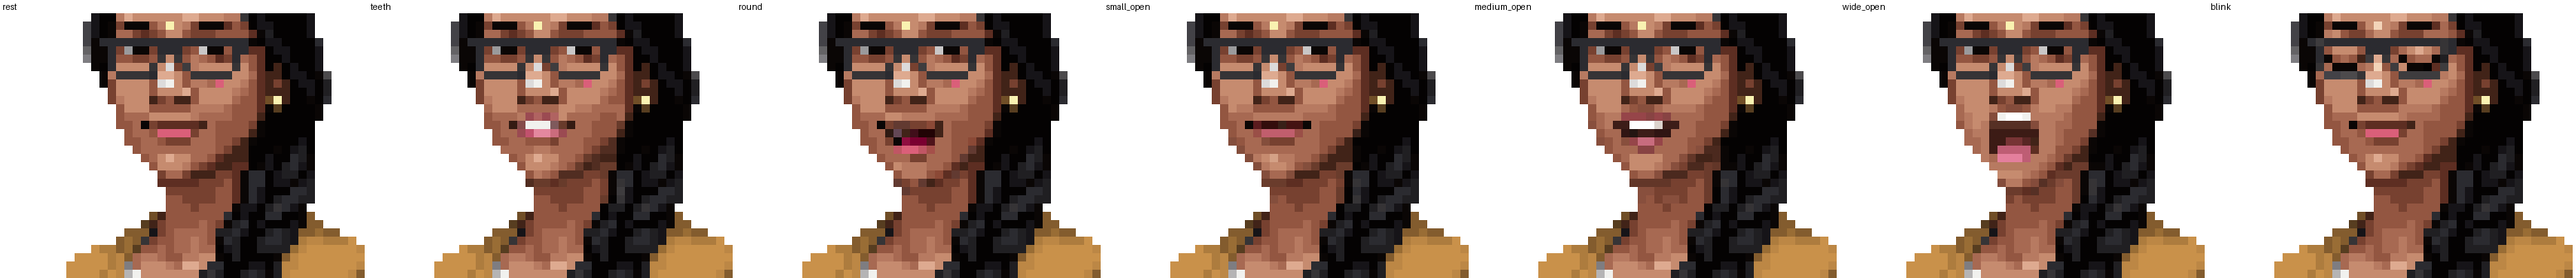
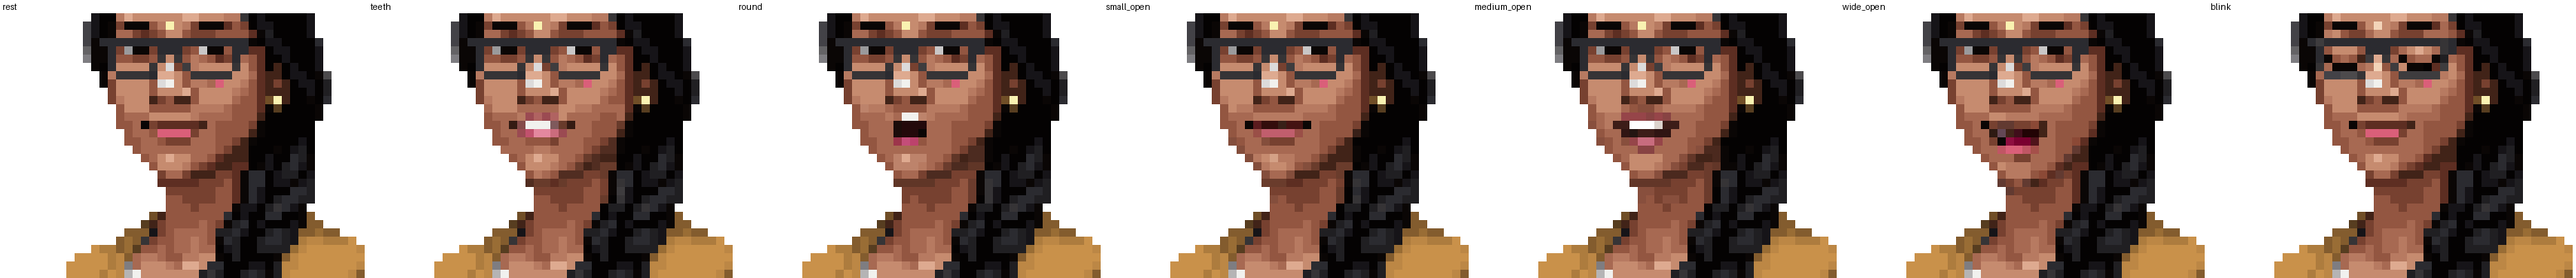
Anjali visemes: owner swap, round = wide_s42 and wide_open = earlier round frame (wide_s43 too wide)

Changed region(s): [[0.749, 0.3869, 0.8115, 0.7143], [0.3433, 0.3869, 0.4057, 0.6845]]

diff --git a/tools/pixellab_overrides/anjali_rao/visemes/apply_visemes.py b/tools/pixellab_overrides/anjali_rao/visemes/apply_visemes.py
@@ -1,8 +1,8 @@
 #!/usr/bin/env python3
 """Rebuild anjali_rao_visemes.png (+ .json): before_sheet.png with teeth, small_open,
-medium_open and wide_open replaced by the picked PixelLab inpaint candidates,
+medium_open and round replaced by the picked PixelLab inpaint candidates,
 pasted onto rest inside MASK only, and only where rest is opaque. round and blink
-are kept from before_sheet.png.
+come from before_sheet.png (wide_open = its round frame).
 Usage: python3 apply_visemes.py [out.png]   (default: the game sheet; also writes the .json beside it)"""
 import sys, json, pathlib
 from PIL import Image
@@ -11,14 +11,17 @@ HERE = pathlib.Path(__file__).parent
 GAME = HERE.parents[2].parent / 'public/break_escape/assets/characters/anjali_rao_visemes.png'
 MASK = (52, 25, 70, 37)  # x0,y0,x1,y1 inclusive (19x13)
 PICKS = {'teeth': 'teeth_s12', 'small_open': 'small_s23',
-         'medium_open': 'med_s32', 'wide_open': 'wide_s43'}
+         'medium_open': 'med_s32', 'round': 'wide_s42'}
+# frames copied from another slot of before_sheet.png (owner, 24 Nov: wide_s43 too wide; the old round frame becomes wide_open)
+FROM_BEFORE = {'wide_open': 'round'}
 ORDER = ['rest', 'teeth', 'round', 'small_open', 'medium_open', 'wide_open', 'blink']
 SOURCE = ('pixellab /inpaint-image-pro-flash on the rest frame, rectangle mask x52-70 y25-37 (128px), '
           'one generation per call; picks pasted onto rest inside the mask, opaque pixels only: '
           + ', '.join(f'{k}:{v}' for k, v in PICKS.items())
-          + '; round and blink kept from the earlier sheet (round: talk-frame lower face; blink: inpaint i01, eyes mask)')
+          + '; wide_open is the earlier sheet\'s round frame (talk-frame lower face, owner pick 24 Nov); blink kept from the earlier sheet (inpaint i01, eyes mask)')
 sheet = np.array(Image.open(HERE / 'before_sheet.png').convert('RGBA'))
 rest = sheet[:, :128].copy()
+before = sheet.copy()
 x0, y0, x1, y1 = MASK
 m = np.zeros(rest.shape[:2], bool); m[y0:y1+1, x0:x1+1] = True
 for name, cand in PICKS.items():
@@ -28,6 +31,9 @@ for name, cand in PICKS.items():
     out[sel] = c[sel]
     i = ORDER.index(name)
     sheet[:, i*128:(i+1)*128] = out
+for name, src in FROM_BEFORE.items():
+    i, j = ORDER.index(name), ORDER.index(src)
+    sheet[:, i*128:(i+1)*128] = before[:, j*128:(j+1)*128]
 dest = pathlib.Path(sys.argv[1]) if len(sys.argv) > 1 else GAME
 Image.fromarray(sheet).save(dest)
 meta = json.load(open(HERE / 'before_sheet.json'))

diff --git a/tools/pixellab_overrides/anjali_rao/visemes/README.md b/tools/pixellab_overrides/anjali_rao/visemes/README.md
@@ -19,3 +19,6 @@ teeth `teeth_s12`, small_open `small_s23`, medium_open `med_s32`, wide_open `wid
 - medium: "relaxed ah, twice the height of closed lips, upper teeth visible" (31); "about three pixels tall" (32, picked).
 - wide: "wide ah, tall open mouth" (41, rejected: mouth ran down to the chin); "oh, about four pixels tall" (42); "ah, five pixels tall, as wide as the lips" (43, picked).
 No candidate had off-palette (bluish) pixels.
+
+## Owner change, 24 Nov
+wide_s43 was too wide. `round` is now candidate `wide_s42`, and `wide_open` is the earlier sheet's round frame (kept, darker). No new generations. apply_visemes.py: PICKS round=wide_s42, FROM_BEFORE wide_open=round. Out-of-mask check is 0 for every mouth frame.
